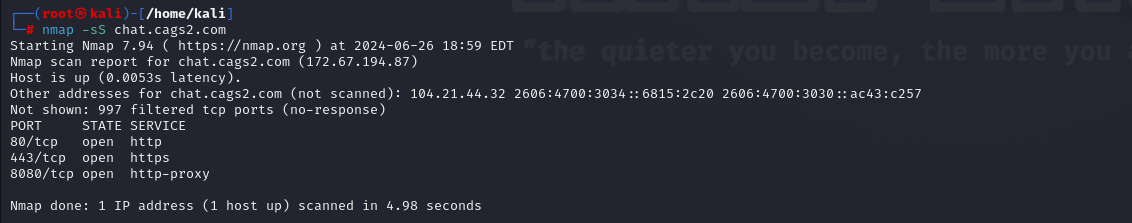
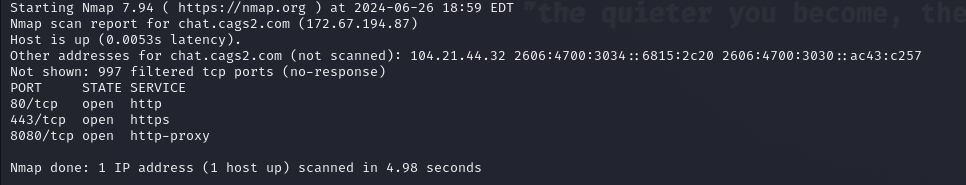
finished the kali experience thingy

Changed region(s): [[0.0, 0.0, 0.9627, 0.5135], [0.0, 0.5405, 0.2174, 0.8108], [0.0, 0.8649, 0.4969, 0.9459]]

diff --git a/src/Contents/ProjectPages/Contents/KaliLinux.jsx b/src/Contents/ProjectPages/Contents/KaliLinux.jsx
@@ -6,28 +6,66 @@ export default function KaliLinux() {
     <div>
       <TitleText backC={'#005163'}>
           <h1>Basic Penetration Testing Using Kali</h1>
-          <h2>Used Kali to perform basic passive/active reconnaissance and SYN flood.</h2>
+          <h2>Used Kali to perform basic passive/active reconnaissance and DoS.</h2>
       </TitleText>
       <LargeSection>
-        <LargeText>Passive Reconaissance</LargeText>
+        <LargeText>Passive Reconnaissance</LargeText>
         <MediumSection>
             <MediumText>Using theHarvester</MediumText>
             <SmallText>First, I installed the necessary dependency and looked at the options.</SmallText>
             <SmallText>I tried it on a domain example.com with the <code>-d</code> option.</SmallText>
-            <SmallText>Searched bing and duckduckgo with the <code>-b</code> option.</SmallText>
+            <SmallText>Searched Bing and DuckDuckGo with the <code>-b</code> option.</SmallText>
             <SmallText>Looked for 10,000 searches for each with the <code>-l</code> option.</SmallText>
-            <SmallText>Made it verbose with <code>-v</code> and stored it on cags2Harvest.html with <code>-f</code> option.</SmallText>
+            <SmallText>Made it verbose with the <code>-v</code> option and stored it on cags2Harvest.html with the <code>-f</code> option.</SmallText>
             <ImgSec ImgSrc="/kaliLinux/3.png" />
         </MediumSection>
         <MediumSection>
-            <MediumText>Analyzing Result</MediumText>
-            <SmallText>After the search 3 emails were found along with 7 subdomains.</SmallText>
-            <SmallText>This means that in the future reconnaissance and attack vectors should also consider these emails and subdomains.</SmallText>
+            <MediumText>Analyzing the Result</MediumText>
+            <SmallText>After the search, three emails were found along with seven subdomains.</SmallText>
+            <SmallText>This means that future reconnaissance and attack vectors should also consider these emails and subdomains.</SmallText>
             <ImgSec ImgSrc="/kaliLinux/5.png" />
         </MediumSection>
       </LargeSection>
       <LargeSection>
-        
+        <LargeText>Active Reconnaissance</LargeText>
+        <MediumSection>
+          <MediumText>Using nmap</MediumText>
+          <SmallText>The <code>-sS</code> flag is used to send SYN packets to target TCP ports. If the port is open, it responds with a SYN-ACK.</SmallText>
+          <SmallText>If I were to check UDP ports too, I would add the <code>-sU</code> flag.</SmallText>
+          <SmallText>Here, the target is my domain chat.cags2.com.</SmallText>
+          <ImgSec ImgSrc="/kaliLinux/7.png" />
+        </MediumSection>
+        <MediumSection>
+          <MediumText>Analyzing the Result</MediumText>
+          <SmallText>As shown in the results, chat.cags2.com has three TCP ports open: 80, 443, and 8080.</SmallText>
+          <SmallText>These ports can be used to potentially exploit vulnerabilities.</SmallText>
+          <ImgSec ImgSrc="/kaliLinux/10.png" />
+        </MediumSection>
+      </LargeSection>
+      <LargeSection>
+        <LargeText>DoS attack</LargeText>
+        <MediumSection>
+          <MediumText>Using hping3</MediumText>
+          <SmallText>This tool allows for custom TCP/IP packet creation.</SmallText>
+          <SmallText>The <code>-S</code> sets the SYN flag in the packet to true. <code>-p 80</code> targets the HTTP port.</SmallText>
+          <SmallText>The <code>-i u1</code> means the packet will be sent in a 1 microsecond interval.</SmallText>
+          <SmallText>Here, the target is again, my domain chat.cags2.com.</SmallText>
+          <SmallText>Lastly, <code>-c 10</code> sends a count of 10 packets to the target.</SmallText>
+          <ImgSec ImgSrc="/kaliLinux/18.png" />
+        </MediumSection>
+        <MediumSection>
+          <MediumText>Analyzing the Results</MediumText>
+          <SmallText>The first time the command is executed there is a 0% packet loss.</SmallText>
+          <SmallText>However, the second time the command is executed there is a 100% packet loss.</SmallText>
+          <SmallText>This indicates that after the first attempt, the port rate-limited, which means it's doing its job properly.</SmallText>
+          <ImgSec ImgSrc="/kaliLinux/20.png" />
+        </MediumSection>
+      </LargeSection>
+      <LargeSection>
+          <MediumSection>
+              <MediumText>Final Takeaways</MediumText>
+              <SmallText>I had a lot of fun testing various techniques for passive and active reconnaissance, as well as testing various ways to attack. These were just the few I liked the most. I am going to continue practicing penetration testing because it provides great insights into various security aspects.</SmallText>
+          </MediumSection>
       </LargeSection>
     </div>
   )

diff --git a/src/Contents/ITProjects.jsx b/src/Contents/ITProjects.jsx
@@ -27,7 +27,7 @@ export default function ITProjects() {
     
     const kaliLinux = {
         title: 'Basic Penetration Testing Using Kali',
-        desc: 'Used Kali to perform basic passive/active reconnaissance and SYN flood.',
+        desc: 'Used Kali to perform basic passive/active reconnaissance and DoS.',
         imgLink: '/kaliLinux/0.png',
         navigateLink: 'kali-linux-pen-test'
     }
